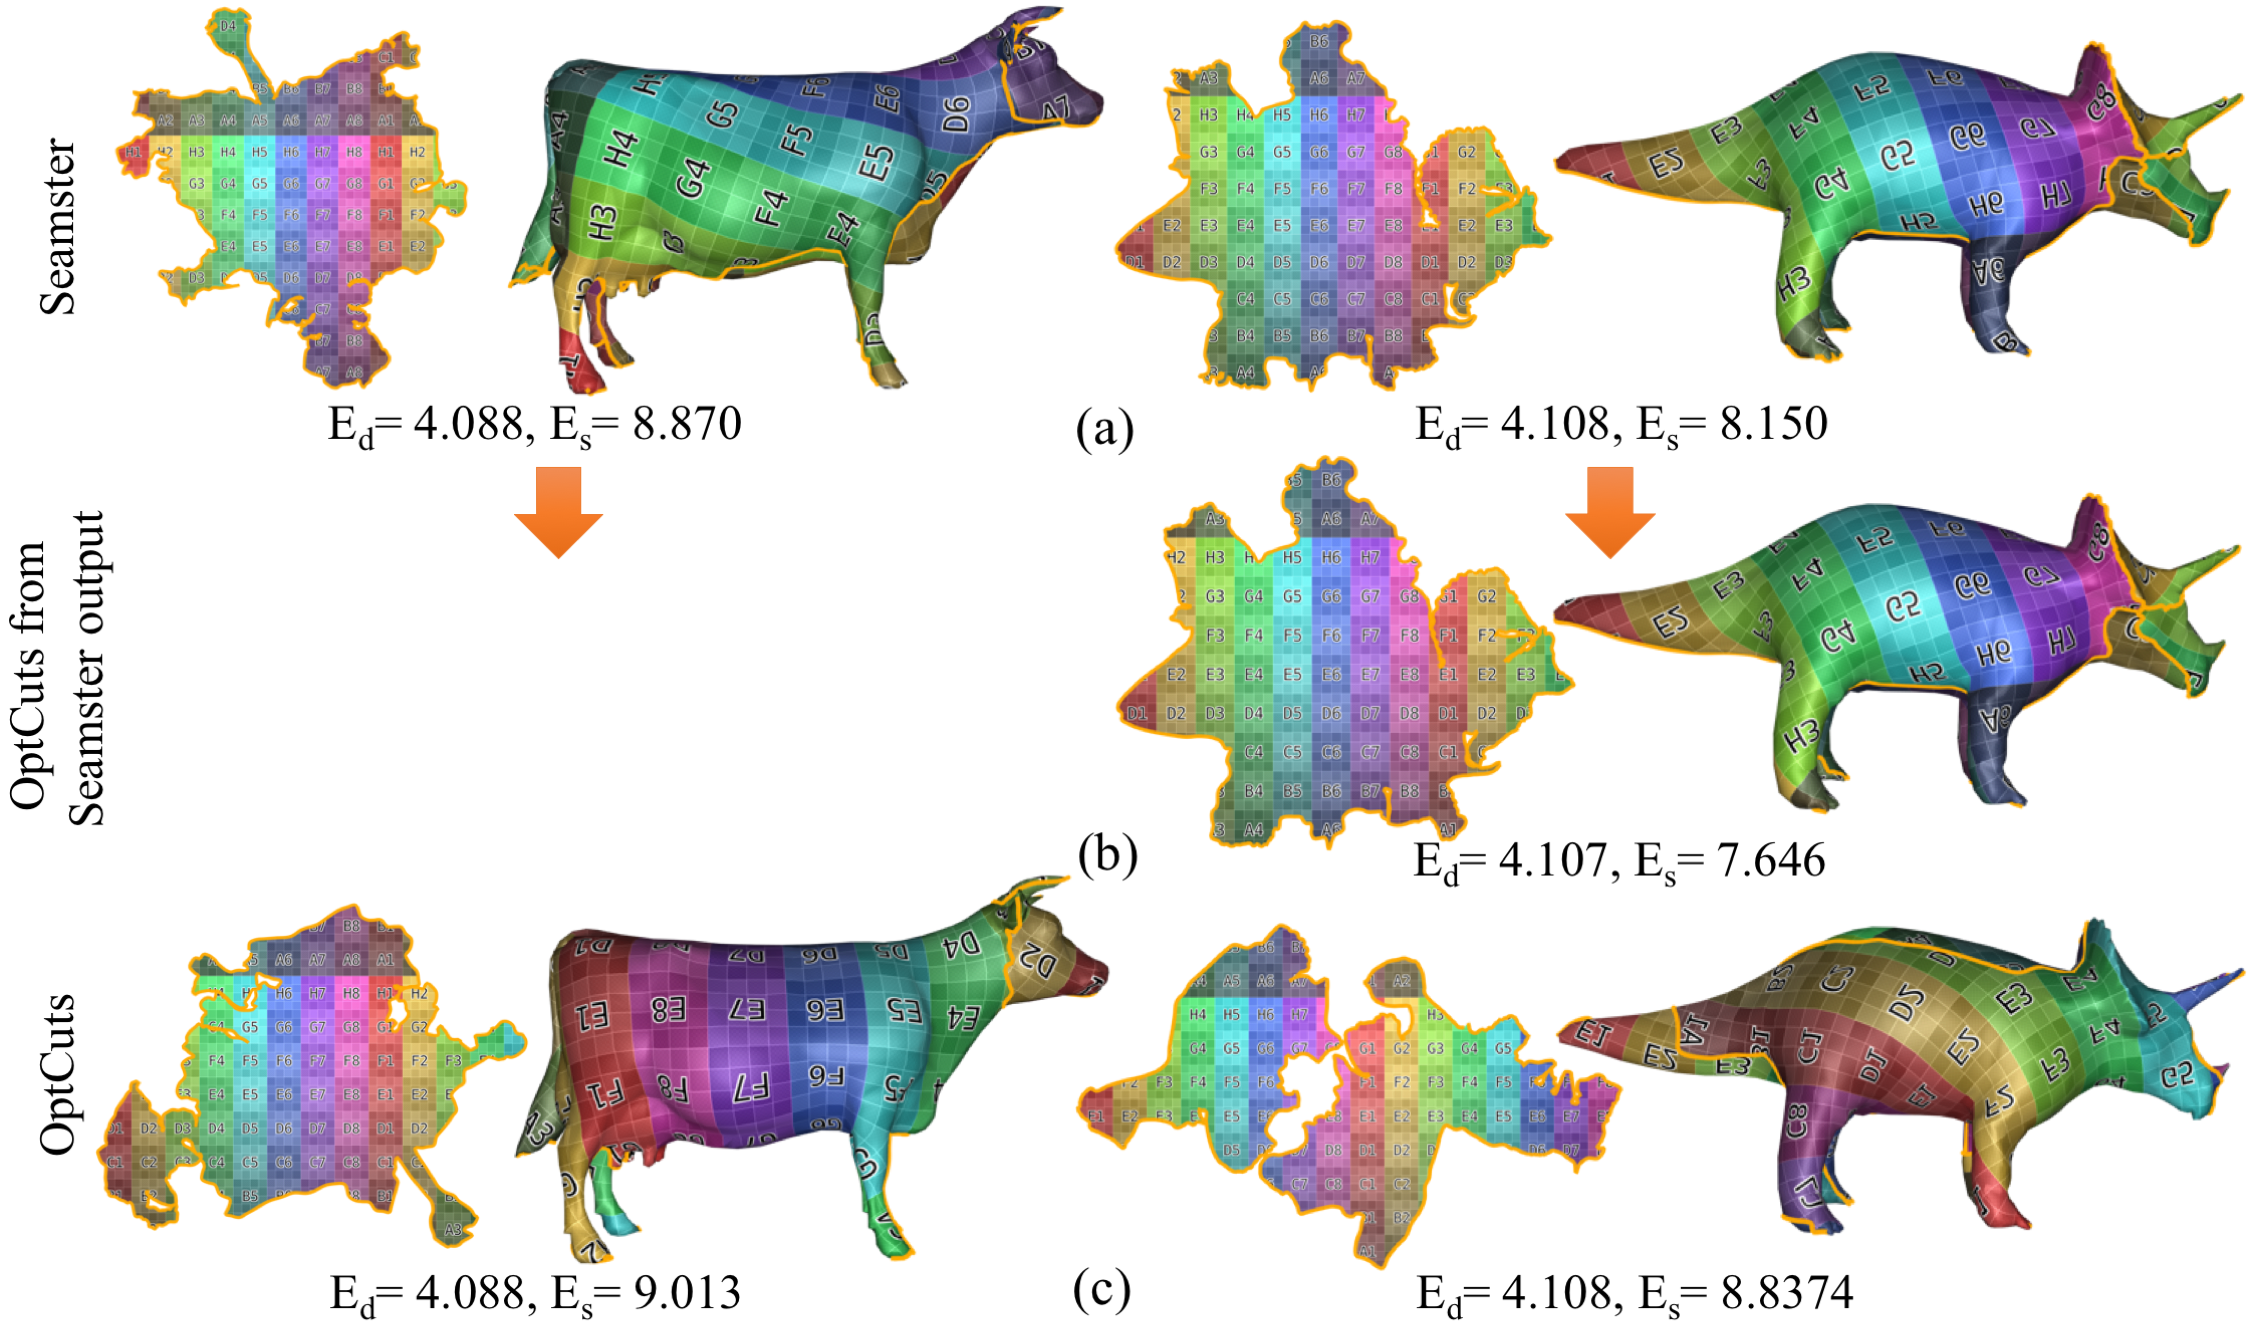
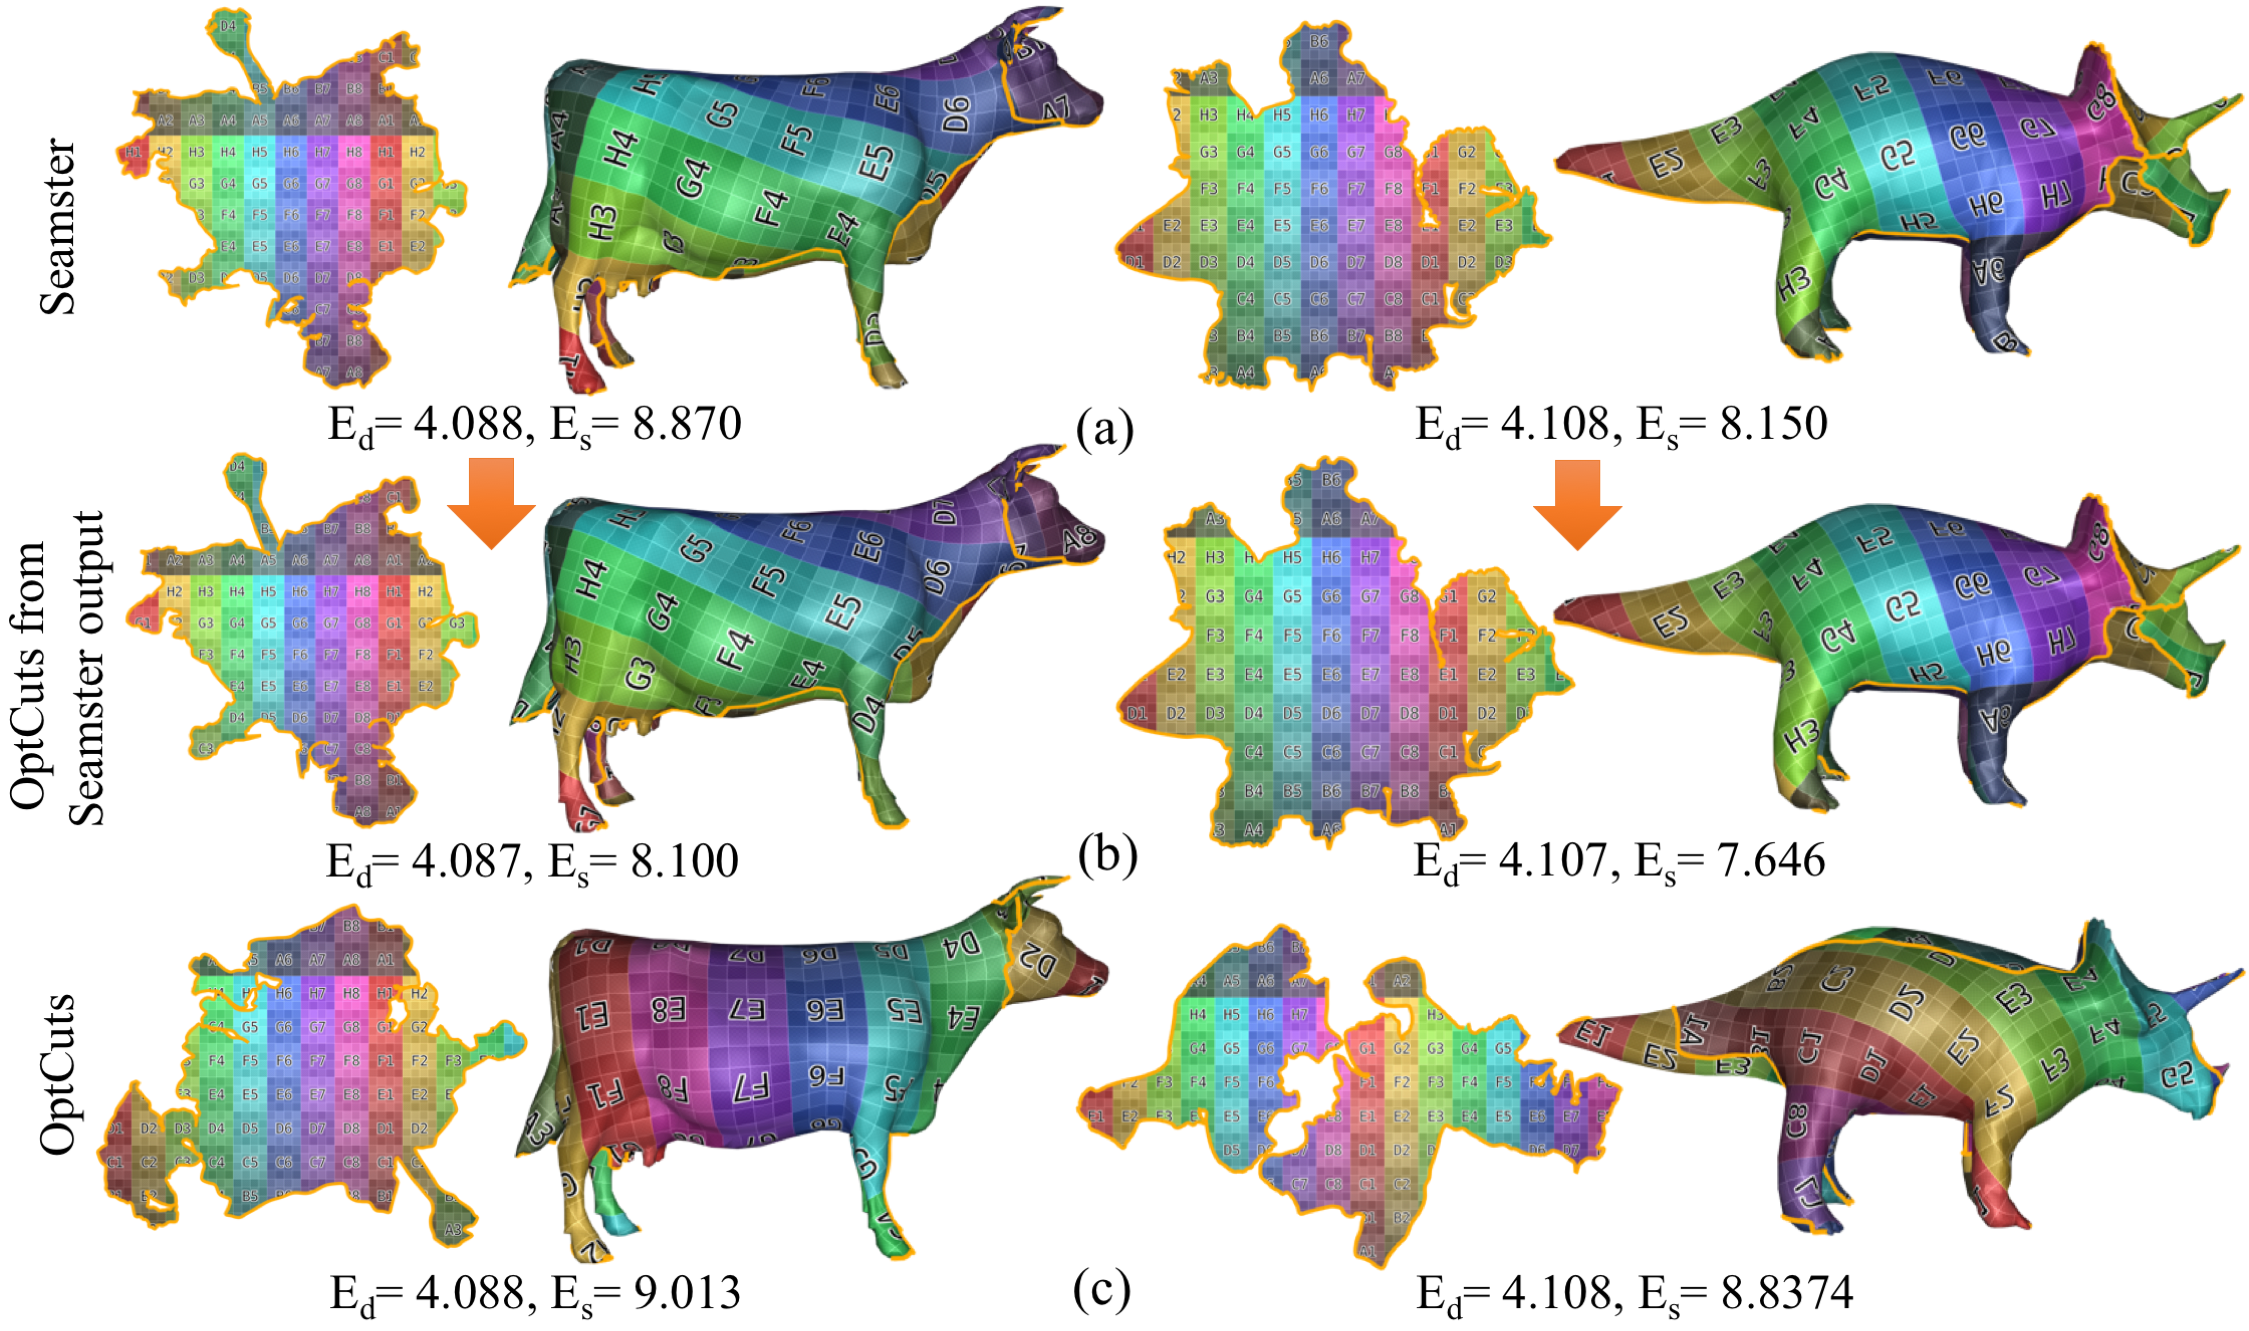
Updated Seamster warm start

Changed region(s): [[0.0622, 0.3388, 0.498, 0.6777], [0.6847, 0.3388, 0.747, 0.4313]]

diff --git a/paper/results.tex b/paper/results.tex
@@ -216,7 +216,7 @@ Seamster~\cite{Sheffer2002Seamster} is another classic seam cutting method worth
 \begin{figure}[!h]
 \centering
 \includegraphics[width=\linewidth]{fig/comp_Seamster.png}
-\caption{\minchen{[trouble stitching cow mesh together while maintaining the UV coordinates, will fix soon]} Starting from UV maps obtained by using Seamster's best output seams (a), we improve seam quality, reaching a locally optimal seam configuration while maintaining the distortion and bijectivity (b). This seam length is also shorter than running standard OptCuts without bijectivity from standard initialization (c).}
+\caption{Starting from UV maps obtained by using Seamster's best output seams (a), we improve seam quality, reaching a locally optimal seam configuration while maintaining the distortion and bijectivity (b). This seam length is also shorter than running standard OptCuts without bijectivity from standard initialization (c).}
 \label{fig:comp_Seamster}
 \end{figure}
 
